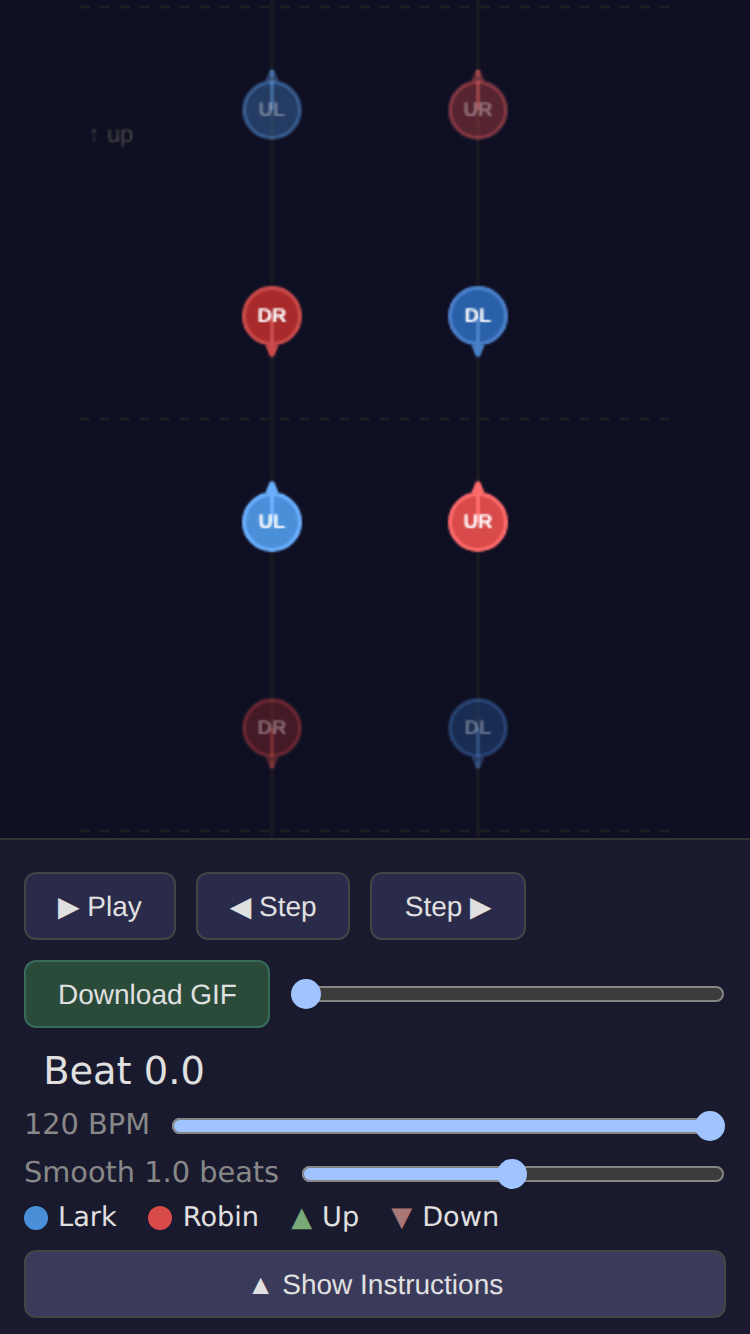
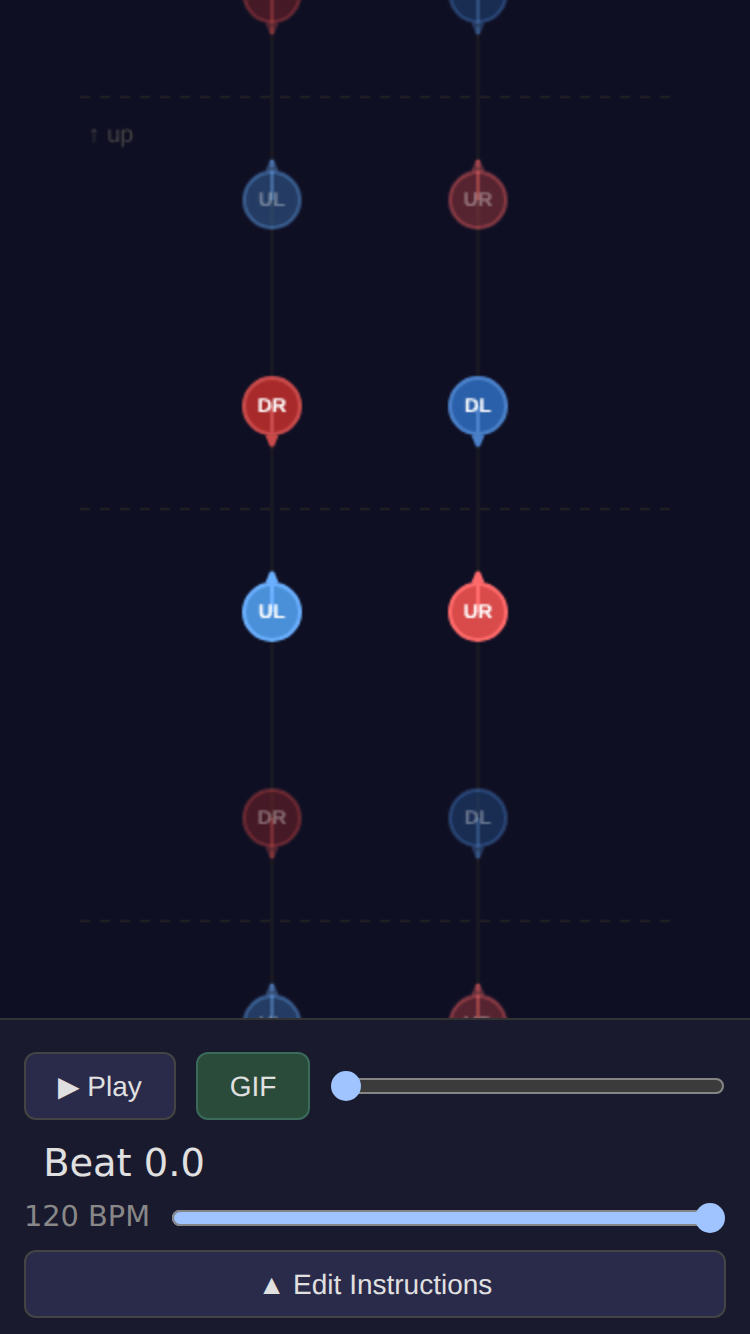
Redesign mobile layout: compact controls vs full-screen editor
Replace the old overlay drawer with two mutually exclusive modes:
- Compact: play/pause, scrubber, BPM slider, GIF export, "Edit Instructions"
  (step buttons and lark/robin/up/down legend removed on mobile)
- Full-screen: instruction editor covers the entire viewport with
  "Back to Visualization" button to return

This eliminates the z-index stacking issue where the drawer obscured the
toggle button, and gives the instruction editor proper space to work in.

https://claude.ai/code/session_0143qUxu63GQAS3dDPzvSXu6

diff --git a/src/App.tsx b/src/App.tsx
@@ -332,7 +332,7 @@ export default function App() {
     ? Math.round((beat - minBeat) / (maxBeat - minBeat) * 1000)
     : 0;
 
-  const controlsBlock = (
+  const desktopControlsBlock = (
     <>
       <div className="controls">
         <button onClick={togglePlay}>
@@ -390,6 +390,13 @@ export default function App() {
     </>
   );
 
+  const commandPaneProps = {
+    instructions, setInstructions, initFormation, setInitFormation, progression,
+    setProgression: (p: number) => { progressionRef.current = p; setProgression(p); },
+    activeId: activeInstructionId(instructions, beat),
+    warnings, generateError, progressionWarning, onHoverInstruction: handleHoverInstruction,
+  };
+
   return (
     <div className="app-layout">
       {localStorageError && (
@@ -408,25 +415,55 @@ export default function App() {
       {/* Desktop sidebar */}
       <div className="sidebar-column">
         <div className="sidebar-instructions">
-          <CommandPane instructions={instructions} setInstructions={setInstructions} initFormation={initFormation} setInitFormation={setInitFormation} progression={progression} setProgression={p => { progressionRef.current = p; setProgression(p); }} activeId={activeInstructionId(instructions, beat)} warnings={warnings} generateError={generateError} progressionWarning={progressionWarning} onHoverInstruction={handleHoverInstruction} />
+          <CommandPane {...commandPaneProps} />
         </div>
         <div className="sidebar-controls">
-          {controlsBlock}
+          {desktopControlsBlock}
         </div>
       </div>
 
-      {/* Mobile controls overlay */}
+      {/* Mobile: compact controls bar */}
       <div className="mobile-controls">
-        {controlsBlock}
-        <button className="drawer-toggle" onClick={() => setDrawerOpen(!drawerOpen)}>
-          {drawerOpen ? '\u25BC Hide Instructions' : '\u25B2 Show Instructions'}
+        <div className="controls">
+          <button onClick={togglePlay}>
+            {playing ? '\u23F8 Pause' : '\u25B6 Play'}
+          </button>
+          <button onClick={downloadGif} disabled={exporting || keyframes.length === 0} className="gif-btn">
+            {exporting ? 'Exporting\u2026' : 'GIF'}
+          </button>
+          <input
+            type="range"
+            min={0}
+            max={1000}
+            value={scrubberValue}
+            onChange={e => scrub(Number(e.target.value))}
+          />
+          <div className="beat-display">Beat {beat.toFixed(1)}</div>
+        </div>
+        <div className="controls">
+          <span className="speed-display">{bpm} BPM</span>
+          <input
+            type="range"
+            min={60}
+            max={120}
+            value={bpm}
+            onChange={e => { const v = Number(e.target.value); bpmRef.current = v; setBpm(v); }}
+          />
+        </div>
+        <button className="drawer-toggle" onClick={() => setDrawerOpen(true)}>
+          {'\u25B2 Edit Instructions'}
         </button>
       </div>
 
-      {/* Mobile instruction drawer */}
-      <div className={`instruction-drawer ${drawerOpen ? 'open' : ''}`}>
-        <CommandPane instructions={instructions} setInstructions={setInstructions} initFormation={initFormation} setInitFormation={setInitFormation} progression={progression} setProgression={p => { progressionRef.current = p; setProgression(p); }} activeId={activeInstructionId(instructions, beat)} warnings={warnings} generateError={generateError} progressionWarning={progressionWarning} onHoverInstruction={handleHoverInstruction} />
-      </div>
+      {/* Mobile: full-screen instruction editor */}
+      {drawerOpen && (
+        <div className="instruction-drawer open">
+          <button className="drawer-toggle" onClick={() => setDrawerOpen(false)}>
+            {'\u25BC Back to Visualization'}
+          </button>
+          <CommandPane {...commandPaneProps} />
+        </div>
+      )}
     </div>
   );
 }

diff --git a/src/index.css b/src/index.css
@@ -523,28 +523,17 @@ input[type="range"] {
     border-top: 1px solid #333;
     background: #1a1a2e;
     flex-shrink: 0;
-    position: relative;
-    z-index: 20;
-  }
-
-  .instruction-drawer {
-    display: block;
-    position: fixed;
-    bottom: 0;
-    left: 0;
-    right: 0;
-    max-height: 60vh;
-    overflow-y: auto;
-    background: #1a1a2e;
-    border-top: 2px solid #444;
-    padding: 12px;
-    transform: translateY(100%);
-    transition: transform 0.3s ease;
-    z-index: 10;
   }
 
   .instruction-drawer.open {
-    transform: translateY(0);
+    display: flex;
+    flex-direction: column;
+    position: fixed;
+    inset: 0;
+    overflow-y: auto;
+    background: #1a1a2e;
+    padding: 12px;
+    z-index: 50;
   }
 }
 

diff --git a/demos/fix-drawer-zindex/demo.md b/demos/fix-drawer-zindex/demo.md
@@ -1,46 +1,46 @@
-# Fix: Mobile instruction drawer no longer blocks Hide button
+# Mobile: two-mode layout (compact controls vs full-screen editor)
 
-*2026-02-22T20:00:19Z by Showboat 0.6.0*
-<!-- showboat-id: e4d8ea9e-268d-4770-a26e-80da253680b7 -->
+*2026-02-22T20:09:37Z by Showboat 0.6.0*
+<!-- showboat-id: f5b0a64c-4cf1-4925-9246-0ea05e5863ce -->
 
-On mobile, the instruction drawer (position: fixed, z-index: 10) was stacking on top of the mobile controls when opened, making the Hide Instructions toggle button unclickable. Fixed by giving .mobile-controls position: relative and z-index: 20 so it stays above the drawer.
+Replaced the old overlay drawer with two mutually exclusive mobile modes: a compact controls bar (play, scrubber, BPM, GIF export, Edit Instructions button) and a full-screen instruction editor. Step buttons and the lark/robin/up/down legend are removed from mobile.
 
-## Step 1: Mobile view — controls and Show Instructions button visible
+## Compact controls mode
 
 ```bash {image}
 demos/fix-drawer-zindex/screenshot-1.png
 ```
 
-![ff19d4b5-2026-02-22](ff19d4b5-2026-02-22.png)
+![e1d5da35-2026-02-22](e1d5da35-2026-02-22.png)
 
-## Step 2: Drawer open — instructions visible, Hide button still clickable
+## Full-screen instruction editor (after tapping Edit Instructions)
 
 ```bash {image}
 demos/fix-drawer-zindex/screenshot-2.png
 ```
 
-![0e377ecf-2026-02-22](0e377ecf-2026-02-22.png)
+![af554fbe-2026-02-22](af554fbe-2026-02-22.png)
 
-## Step 3: After clicking Hide — drawer closes successfully
+## Back to visualization (after tapping Back to Visualization)
 
 ```bash {image}
 demos/fix-drawer-zindex/screenshot-3.png
 ```
 
-![95f7f88d-2026-02-22](95f7f88d-2026-02-22.png)
+![85dfa3e2-2026-02-22](85dfa3e2-2026-02-22.png)
 
 ```bash
 npx vitest run 2>&1 | tail -8
 ```
 
 ```output
- [32m✓[39m src/figures/circle/circle.test.ts [2m([22m[2m5 tests[22m[2m)[22m[32m 11[2mms[22m[39m
- [32m✓[39m src/SearchableDropdown.test.tsx [2m([22m[2m24 tests[22m[2m)[22m[33m 903[2mms[22m[39m
+ [32m✓[39m src/figures/longWaves/longWaves.test.ts [2m([22m[2m3 tests[22m[2m)[22m[32m 9[2mms[22m[39m
+ [32m✓[39m src/SearchableDropdown.test.tsx [2m([22m[2m24 tests[22m[2m)[22m[33m 978[2mms[22m[39m
 
 [2m Test Files [22m [1m[32m21 passed[39m[22m[90m (21)[39m
 [2m      Tests [22m [1m[32m189 passed[39m[22m[90m (189)[39m
-[2m   Start at [22m 20:01:19
-[2m   Duration [22m 7.07s[2m (transform 5.73s, setup 0ms, import 14.69s, tests 1.23s, environment 4.46s)[22m
+[2m   Start at [22m 20:10:19
+[2m   Duration [22m 8.72s[2m (transform 7.01s, setup 0ms, import 18.27s, tests 1.36s, environment 5.45s)[22m
 
 ```
 
